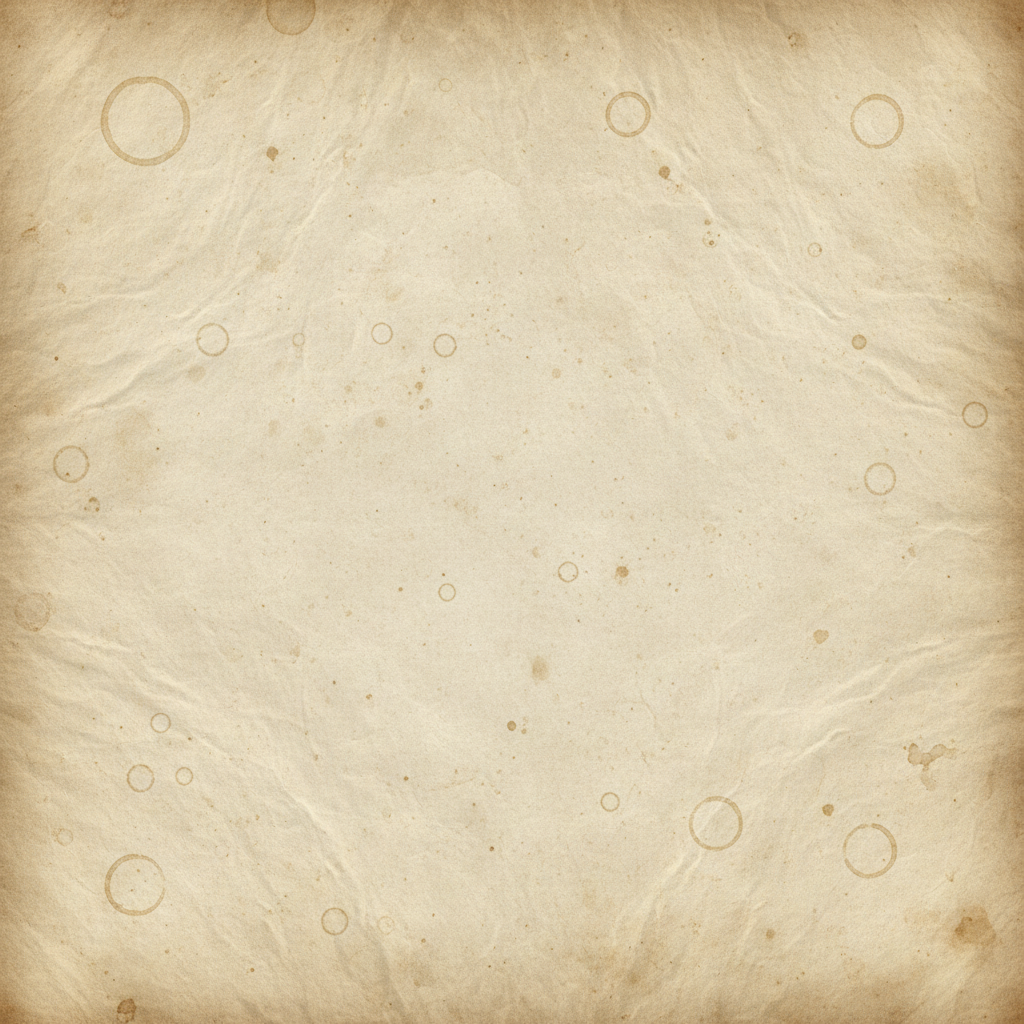
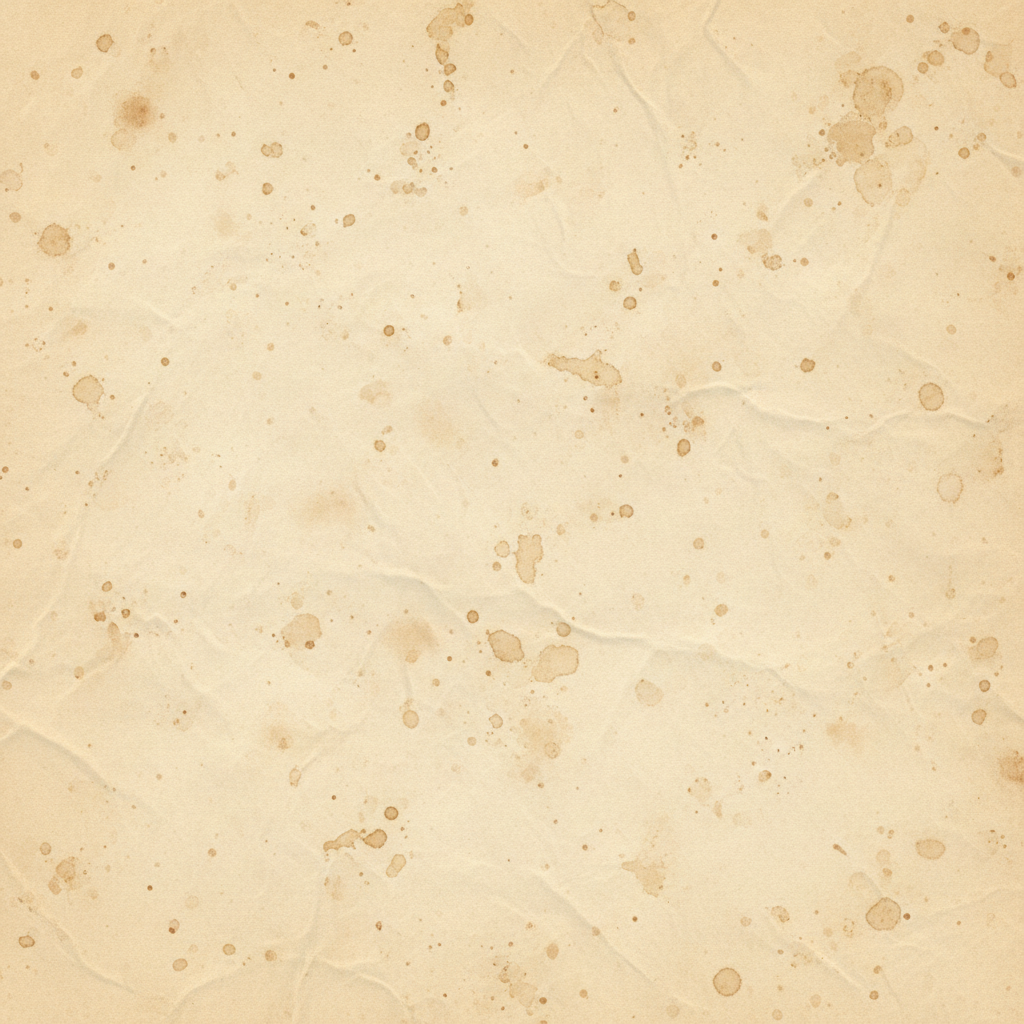
parchment: tileable texture + inset shadow for page-edge effect
Image no longer has edge vignette baked in — now tiles at natural
size (600px) without visible seam bands. Document-wide edges come
from inset box-shadow on body, which anchors to top/bottom of the
full scroll height (not the viewport).

diff --git a/src/styles/global.css b/src/styles/global.css
@@ -32,13 +32,15 @@
     color: var(--color-ink);
     background-color: #E8D9B0;
     background-image: url('/images/parchment-bg.jpg');
-    background-repeat: repeat-y;
-    background-size: 100% auto;
-    background-position: center top;
+    background-repeat: repeat;
+    background-size: 600px 600px;
     background-attachment: scroll;
     min-height: 100vh;
     position: relative;
     isolation: isolate;
+    box-shadow:
+      inset 0 0 120px 20px rgba(55, 32, 12, 0.55),
+      inset 0 0 40px rgba(40, 22, 8, 0.35);
   }
 
   h1, h2, h3, h4 {
